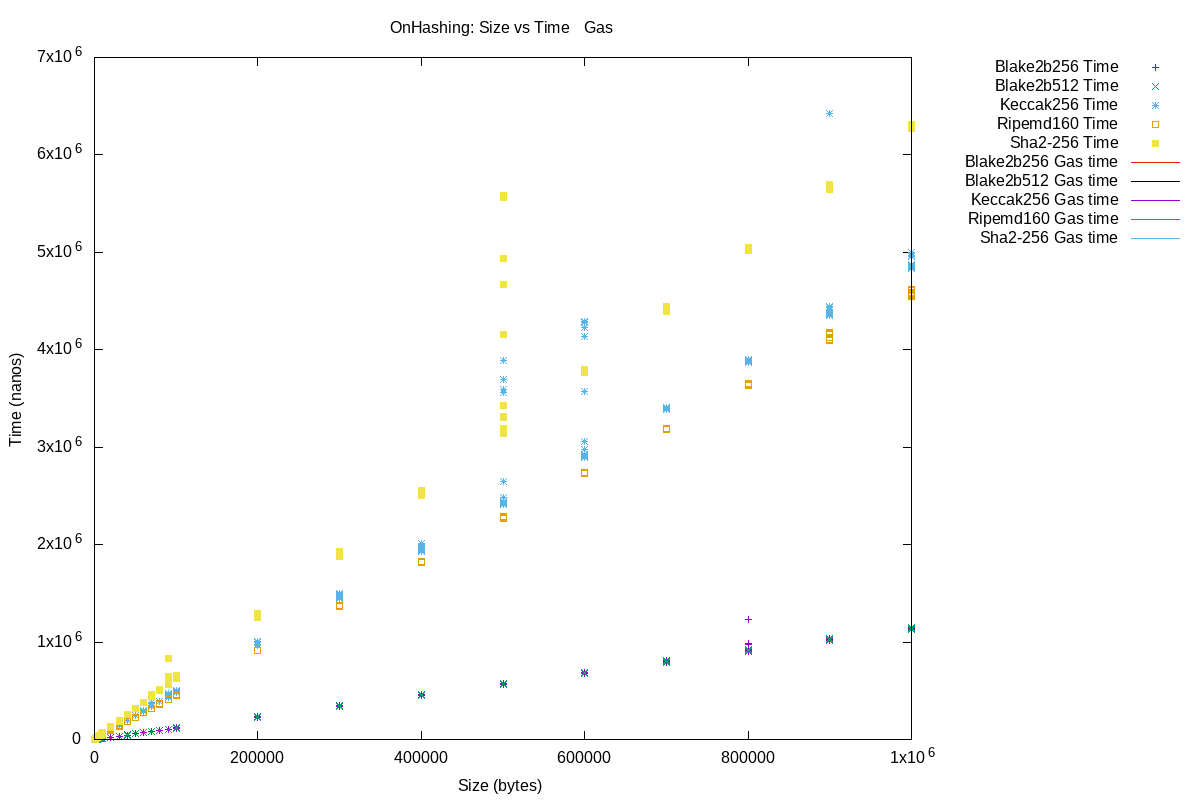
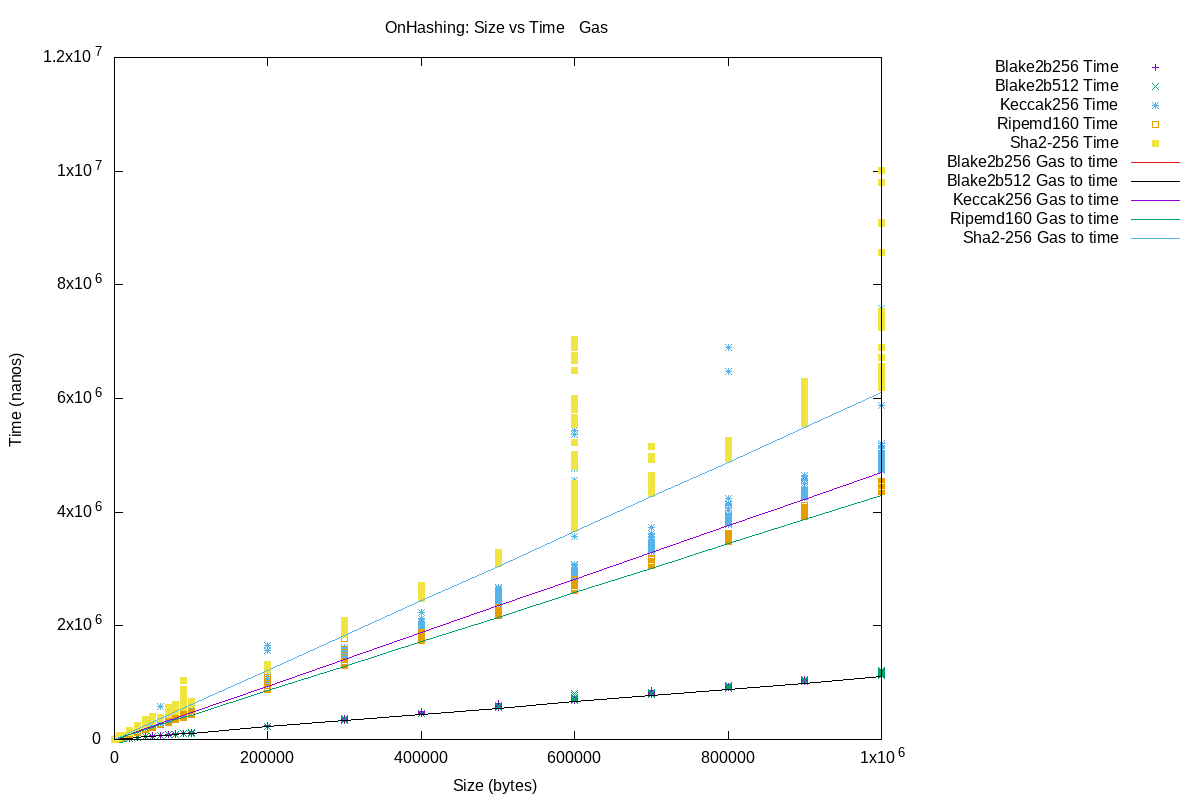
GAS-1279: Update hashing price formula.

diff --git a/fvm/src/gas/price_list.rs b/fvm/src/gas/price_list.rs
@@ -22,6 +22,7 @@ use num_traits::Zero;
 
 use super::GasCharge;
 use crate::gas::Gas;
+use crate::kernel::SupportedHashes;
 
 // Each element reserves a `usize` in the table, so we charge 8 bytes per pointer.
 // https://docs.rs/wasmtime/2.0.2/wasmtime/struct.InstanceLimits.html#structfield.table_elements
@@ -52,7 +53,7 @@ const TABLE_ELEMENT_SIZE: u32 = 8;
 /// ```
 #[macro_export]
 macro_rules! total_enum_map {
-    ($en:ident { $($item:ident => $value:expr),+ }) => {
+    ($en:ident { $($item:ident => $value:expr),+ $(,)? }) => {
         [$($en::$item),+].into_iter().map(|m| {
             // This will not compile if a case is missing.
             let v = match m {
@@ -91,7 +92,19 @@ lazy_static! {
 
         secp256k1_recover_cost: Gas::new(1637292), // TODO measure & revisit this value
 
-        hashing_base: Gas::new(31355),
+        hashing_cost: {
+            let flat = ScalingCost::new(Gas::new(31355), Gas::zero());
+            total_enum_map! {
+                SupportedHashes {
+                    Sha2_256   => flat,
+                    Blake2b256 => flat,
+                    Blake2b512 => flat,
+                    Keccak256  => flat,
+                    Ripemd160  => flat,
+                }
+            }
+        },
+
         compute_unsealed_sector_cid_base: Gas::new(98647),
         verify_seal_base: Gas::new(2000), // TODO revisit potential removal of this
 
@@ -236,7 +249,19 @@ lazy_static! {
         },
         secp256k1_recover_cost: Gas::new(1637292), // TODO measure & revisit this value
 
-        hashing_base: Gas::new(31355),
+        hashing_cost: {
+            let flat = ScalingCost::new(Gas::new(31355), Gas::zero());
+            total_enum_map! {
+                SupportedHashes {
+                    Sha2_256   => flat,
+                    Blake2b256 => flat,
+                    Blake2b512 => flat,
+                    Keccak256  => flat,
+                    Ripemd160  => flat,
+                }
+            }
+        },
+
         compute_unsealed_sector_cid_base: Gas::new(98647),
         verify_seal_base: Gas::new(2000), // TODO revisit potential removal of this
 
@@ -383,7 +408,15 @@ lazy_static! {
         },
         secp256k1_recover_cost: Gas::new(2643945),
 
-        hashing_base: Gas::new(31355),
+        hashing_cost: total_enum_map! {
+            SupportedHashes {
+                Sha2_256   => ScalingCost::new(Gas::zero(), Gas::new(61)),
+                Blake2b256 => ScalingCost::new(Gas::zero(), Gas::new(11)),
+                Blake2b512 => ScalingCost::new(Gas::zero(), Gas::new(11)),
+                Keccak256  => ScalingCost::new(Gas::zero(), Gas::new(47)),
+                Ripemd160  => ScalingCost::new(Gas::zero(), Gas::new(43))
+            }
+        },
         compute_unsealed_sector_cid_base: Gas::new(98647),
         verify_seal_base: Gas::new(2000), // TODO revisit potential removal of this
 
@@ -618,7 +651,7 @@ pub struct PriceList {
     /// Gas cost for recovering secp256k1 signer public key
     pub(crate) secp256k1_recover_cost: Gas,
 
-    pub(crate) hashing_base: Gas,
+    pub(crate) hashing_cost: HashMap<SupportedHashes, ScalingCost>,
 
     pub(crate) compute_unsealed_sector_cid_base: Gas,
     pub(crate) verify_seal_base: Gas,
@@ -793,8 +826,10 @@ impl PriceList {
 
     /// Returns gas required for hashing data.
     #[inline]
-    pub fn on_hashing(&self, _data_len: usize) -> GasCharge {
-        GasCharge::new("OnHashing", self.hashing_base, Zero::zero())
+    pub fn on_hashing(&self, hasher: SupportedHashes, data_len: usize) -> GasCharge {
+        let cost = self.hashing_cost[&hasher];
+        let gas = cost.apply(data_len);
+        GasCharge::new("OnHashing", gas, Zero::zero())
     }
 
     /// Returns gas required for computing unsealed sector Cid.

diff --git a/fvm/src/kernel/default.rs b/fvm/src/kernel/default.rs
@@ -507,10 +507,6 @@ where
     }
 
     fn hash(&self, code: u64, data: &[u8]) -> Result<MultihashGeneric<64>> {
-        let t = self
-            .call_manager
-            .charge_gas(self.call_manager.price_list().on_hashing(data.len()))?;
-
         let hasher = SupportedHashes::try_from(code).map_err(|e| {
             if let multihash::Error::UnsupportedCode(code) = e {
                 syscall_error!(IllegalArgument; "unsupported hash code {}", code)
@@ -518,6 +514,13 @@ where
                 syscall_error!(AssertionFailed; "hash expected unsupported code, got {}", e)
             }
         })?;
+
+        let t = self.call_manager.charge_gas(
+            self.call_manager
+                .price_list()
+                .on_hashing(hasher, data.len()),
+        )?;
+
         t.record(Ok(hasher.digest(data)))
     }
 

diff --git a/fvm/src/kernel/hash.rs b/fvm/src/kernel/hash.rs
@@ -3,7 +3,7 @@
 use multihash::derive::Multihash;
 use multihash::{Blake2b256, Blake2b512, Keccak256, Ripemd160, Sha2_256};
 
-#[derive(Clone, Copy, Debug, Eq, Multihash, PartialEq)]
+#[derive(Clone, Copy, Debug, Eq, Multihash, PartialEq, Hash)]
 #[mh(alloc_size = 64)]
 /// Codes and hashers supported by FVM.
 /// You _can_ use this hash directly inside of your actor,

diff --git a/fvm/src/kernel/mod.rs b/fvm/src/kernel/mod.rs
@@ -30,6 +30,7 @@ pub(crate) mod error;
 
 pub use error::{ClassifyResult, Context, ExecutionError, Result, SyscallError};
 use fvm_shared::event::{ActorEvent, StampedEvent};
+pub use hash::SupportedHashes;
 use multihash::MultihashGeneric;
 use wasmtime::ResourceLimiter;
 
